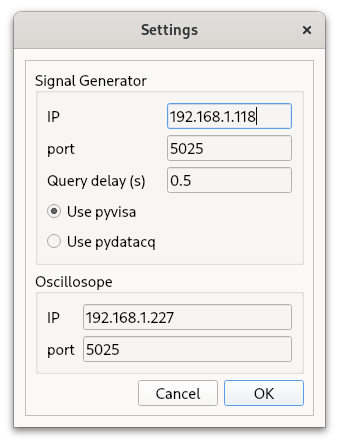
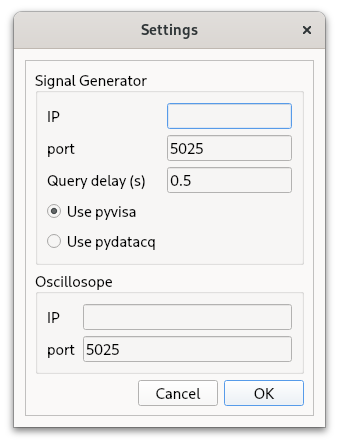
work in progress

Changed region(s): [[0.5015, 0.2342, 0.767, 0.2928], [0.236, 0.7027, 0.531, 0.732]]

diff --git a/readme.MD b/readme.MD
@@ -54,13 +54,16 @@ On first use the ip-addresses of the oscilloscope and the signal generator needs
 The data in this dialog will be saved in `/home/<user>/.config/FM Homelab/yolo.conf`
 
 
+### Use without signal generator
+
+
 ## Tested with
 
 - Fedora Linux 39
 - Gnome 45.10
 - Linux 6.11.9-100.fc39.x86_64
 - oscilloscope: Siglent SDS1202X-E
-- signale generator: Siglent SDG1032X
+- signal generator: Siglent SDG1032X
 - python 3.11.11
 
 
@@ -105,6 +108,13 @@ uvloop               0.19.0a1
 
 ## pyvisa vs. pydatacq
 
+To circumvent some peculiarities in the SCPI over TCP implementation in the Siglent SDG1032X signal generator special code was written in the pydatacq package. This package communicates with the SDG1032X and SDS1202X-E.
+
+Normal read/write communication with the SDG1032X and SDS1202X-E is done with python's asyncio package. This packages communicates in plain TCP with the devices. On the SDG1032X this leads to long required wait times of 0.5 seconds between writes to the device. If the waits are omitted the SDG1032X will hang. To circumvent this, the SDG1032X can also be programmed in SCPI over PyVisa. The PyVisa package communicates SCPI over VXI-11 over TCP which does not require long waits between writes. Communication with the SDG1032X will be much faster.
+
+It is unknown how this works on other signal generators than the SDG1032X.
+
+
 
 ## More to do
 
@@ -113,6 +123,11 @@ uvloop               0.19.0a1
 - make settings dialog a modal dialog
 - clean up code
 - document code
- 
+- better auto V/div adjustment in the oscilloscope views
+- prepare for oscilloscopes with more than 2 channels
+- export THD plot to file
+- export THD and Amplitude vs. frequency data to file in csv format
+- sweep amplitude (this will require a major rework of the gui as well)
+- 
 
 
